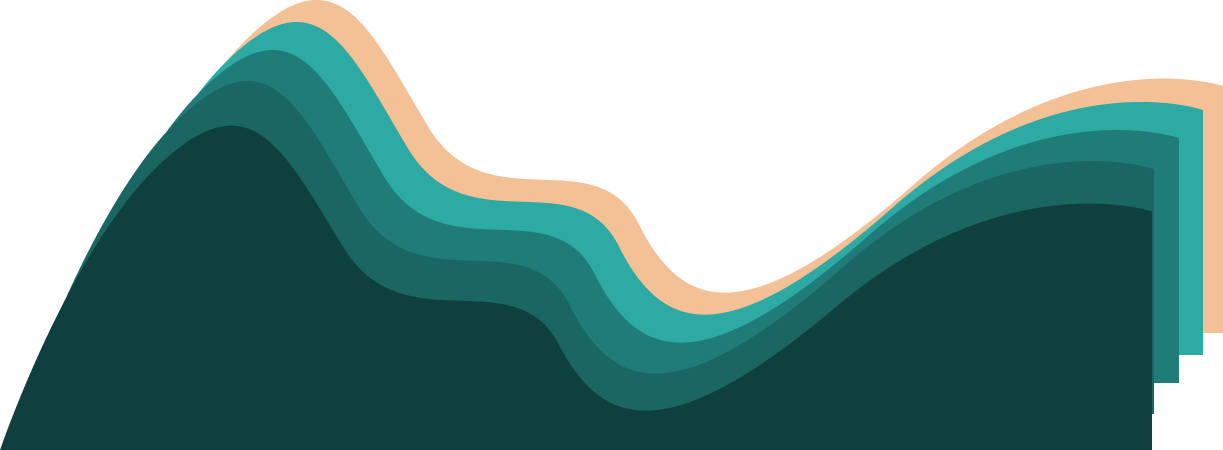
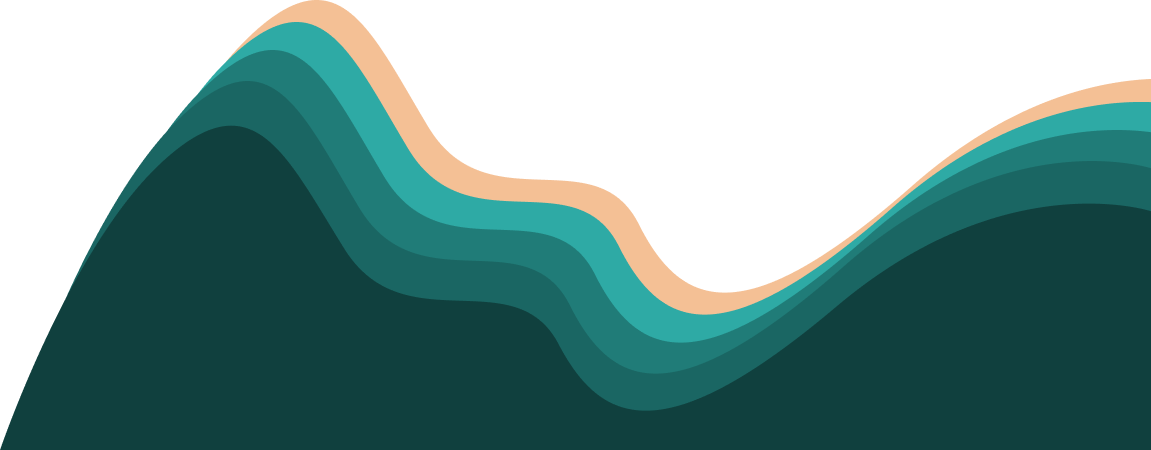
header-homepage completed

Changed region(s): [[0.152, 0.0, 1.0, 1.0], [0.0608, 0.2489, 0.3649, 0.6844], [0.0304, 0.6222, 0.0608, 0.7778]]

diff --git a/style.css b/style.css
@@ -1,0 +1,134 @@
+@font-face {
+  font-family: "font-1";
+  src: url(./fonts/Montserrat-Light.ttf);
+}
+@font-face {
+  font-family: "font-2";
+  src: url(./fonts/Montserrat-Regular.ttf);
+}
+@font-face {
+  font-family: "font-3";
+  src: url(./fonts/Montserrat-SemiBold.ttf);
+}
+@font-face {
+  font-family: "font-4";
+  src: url(./fonts/Overwave-DOpAW.ttf);
+}
+
+:root {
+  --color1: #071e22;
+  --color2: #1d7874;
+  --color3: #679289;
+  --color4: #f4c095;
+  --color5: #ffffff;
+}
+
+* {
+  font-family: "font-2";
+  margin: 0 0 0 0;
+  padding: 0 0 0 0;
+  color: var(--color5);
+}
+
+*::selection {
+  background-color: var(--color3);
+}
+
+/* Header - Home */
+header {
+  height: 90vh;
+  width: 100%;
+  background-color: var(--color1);
+  padding-top: 10vh;
+  padding-left: 3%;
+}
+
+/* Nav */
+nav {
+  height: 60vh;
+  width: 100px;
+  background-color: var(--color3);
+  border-radius: 15px;
+  z-index: 1000;
+  position: absolute;
+  top: 20vh;
+}
+
+nav ul {
+  display: flex;
+  flex-direction: column;
+  justify-content: space-around;
+  align-items: center;
+  height: 60vh;
+  width: 100px;
+}
+
+nav ul li img {
+  width: 75px;
+  height: 75px;
+  cursor: pointer;
+  opacity: 0.75;
+}
+nav ul li img:hover {
+  filter: drop-shadow(0px 10px 10px rgba(0, 0, 0, 0.5));
+}
+nav ul li img:active {
+  filter: drop-shadow(0px 10px 10px rgba(0, 0, 0, 1));
+}
+
+nav ul li {
+  list-style-type: none;
+}
+
+/* Main Header */
+h1 {
+  color: var(--color4);
+  font-family: "font-3";
+  font-size: 64px;
+  align-items: center;
+  position: absolute;
+  top: 20vh;
+  left: 25%;
+}
+
+h2 {
+  font-family: "font-4";
+  font-size: 48px;
+  letter-spacing: 10px;
+  align-items: center;
+  background: linear-gradient(90deg, #207c78 0%, #f4c095 75%);
+  background-clip: border-box;
+  -webkit-background-clip: text;
+  -webkit-text-fill-color: transparent;
+  position: absolute;
+  top: 30vh;
+  left: 25%;
+}
+
+#downloadcv {
+  font-family: "font-1";
+  font-size: 24px;
+  width: 275px;
+  height: 75px;
+  color: var(--color4);
+  background-color: var(--color2);
+  border-radius: 15px;
+  border: none;
+  position: absolute;
+  bottom: 40vh;
+  right: 25%;
+  cursor: pointer;
+  z-index: 2;
+  text-decoration: none;
+  display: flex;
+  align-items: center;
+  justify-content: center;
+}
+
+#wave-home {
+  position: absolute;
+  bottom: 0%;
+  right: 0%;
+  width: 90%;
+  height: 50%;
+}

diff --git a/index.html b/index.html
@@ -1,0 +1,29 @@
+<!DOCTYPE html>
+<html lang="fr">
+<head>
+    <meta charset="UTF-8">
+    <meta http-equiv="X-UA-Compatible" content="IE=edge">
+    <meta name="viewport" content="width=device-width, initial-scale=1.0">
+    <title>Florian Lucas</title>
+    <link rel="shortcut icon" href="./assets/wave.png" />
+    <link rel="stylesheet" href="./style.css">
+</head>
+<body>
+    <header>
+        <nav>
+            <ul>
+                <li><img src="./assets/home.png" alt="home"><a href=""></a></li>
+                <li><img src="./assets/aboutme.png" alt="about me"><a href=""></a></li>
+                <li><img src="./assets/skills.png" alt="skills"><a href=""></a></li>
+                <li><img src="./assets/portfolio.png" alt="portfolio"><a href=""></a></li>
+                <li><img src="./assets/contact.png" alt="contact"><a href=""></a></li>
+            </ul>
+        </nav>
+        <h1>Florian LUCAS</h1>
+        <h2>Développeur web front-end</h2>
+        <a  id="downloadcv" href="./cvlucasflorian.pdf" download="cvlucasflorian">Télécharger mon CV</a>
+        <img  id="wave-home" src="./assets/wave.png" alt="wave">
+    </header>
+    <script src="./script.js"></script>
+</body>
+</html>

diff --git a/README.md b/README.md
@@ -1,1 +1,3 @@
-# portfolio
+# Portfolio Florian LUCAS
+
+## Développeur web front-end
